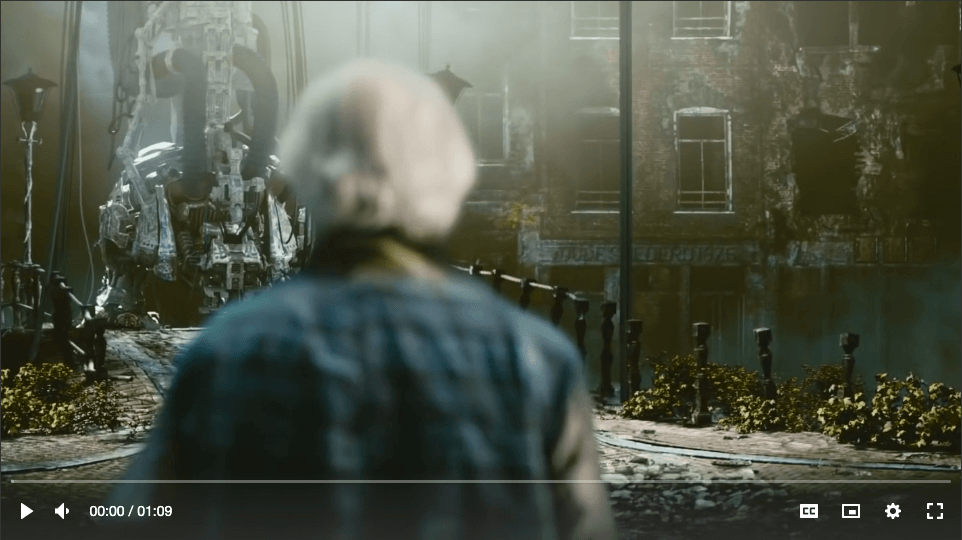
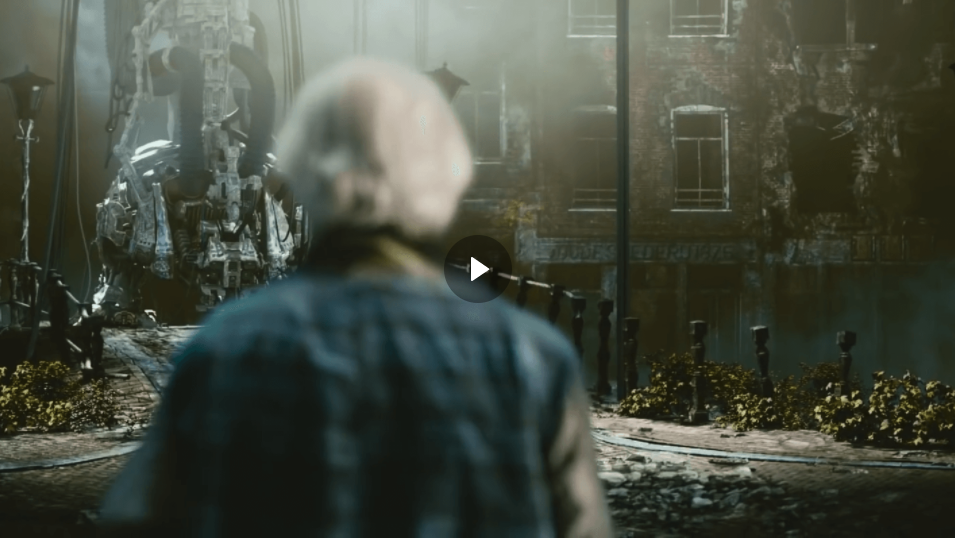
feat(complete): start with big playback control for vids on desktop

diff --git a/packages/vime-complete/src/plugins/controls/DefaultControls.svelte b/packages/vime-complete/src/plugins/controls/DefaultControls.svelte
@@ -104,6 +104,13 @@
   const onSetupDesktopVideoControls = () => {
     onResetGroups();
 
+    centerGroup.$set({
+      isActive: true,
+      shouldFill: true,
+      position: 'center:center',
+      controls: [BigPlaybackControl],
+    });
+
     const liveControls = [
       PlaybackControl, VolumeControl, ControlSpacer,
       LiveIndicator, PiPControl, FullscreenControl,
@@ -117,19 +124,28 @@
     ];
 
     lowerGroup.$set({
-      shouldFill: true,
-      isActive: true,
       position: 'flex-end:flex-start',
+      isEnabled: false,
+      isActive: false,
+      shouldFill: true,
       controls: !$isLive ? stdControls : liveControls,
     });
   };
 
-  $: if (
-    controls
-    && $isVideoView
-    && !$isMobile
-    && didMount
-  ) onSetupDesktopVideoControls($isLive);
+  const onDesktopVideoStart = async () => {
+    centerGroup.isActive = false;
+    await tick();
+    setTimeout(async () => {
+      centerGroup.shouldFill = false;
+      lowerGroup.isEnabled = true;
+      await tick();
+      lowerGroup.isActive = true;
+    }, 400);
+  };
+
+  $: isDesktopVideo = $isVideoView && !$isMobile && didMount;
+  $: if (controls && isDesktopVideo) onSetupDesktopVideoControls($isLive);
+  $: if (controls && isDesktopVideo && $playbackStarted) onDesktopVideoStart($isLive);
 
   // --------------------------------------------------------------
   // Mobile Video Controls
@@ -166,5 +182,5 @@
 
   $: isMobileVideo = $isVideoView && $isMobile && didMount;
   $: if (controls && isMobileVideo) onSetupMobileVideoControls($isLive);
-  $: if (controls && isMobileVideo && $playbackStarted) onMobileVideoStart();
+  $: if (controls && isMobileVideo && $playbackStarted) onMobileVideoStart($isLive);
 </script>

diff --git a/packages/vime-complete/src/plugins/controls/control/BigPlaybackControl.svelte b/packages/vime-complete/src/plugins/controls/control/BigPlaybackControl.svelte
@@ -1,8 +1,15 @@
 <div class:paused={$paused}>
-  <PlaybackControl 
-    large 
+  <ToggleControl
     {player}
-    bind:this={playbackControl}
+    large={true}
+    shoudlRenderTooltip={false}
+    isActive={!$paused}
+    autopilot={false}
+    activeIcon={$icons.pause}
+    inactiveIcon={$icons.play}
+    aria-label={$i18n.playback}
+    on:click={onToggle}
+    bind:this={toggle}
   />
 </div>
 
@@ -11,7 +18,7 @@
 </script>
 
 <script>
-  import PlaybackControl from './PlaybackControl.svelte';
+  import ToggleControl from './ToggleControl.svelte';
 
   // --------------------------------------------------------------
   // Setup
@@ -19,15 +26,17 @@
 
   export let player;
 
-  const { paused } = player.getStore();
+  const { paused, i18n, icons } = player.getStore();
 
   // --------------------------------------------------------------
   // Props
   // --------------------------------------------------------------
 
-  let playbackControl;
+  let toggle;
 
-  export const getPlaybackControl = () => playbackControl;
+  export const getToggle = () => toggle;
+  
+  const onToggle = () => { $paused = !$paused; };
 </script>
 
 <style>

diff --git a/packages/vime-complete/src/plugins/controls/control/Control.svelte b/packages/vime-complete/src/plugins/controls/control/Control.svelte
@@ -82,7 +82,7 @@
 
   // TODO: this is a poor temporary fix, the same control might be reused in different
   // positions, how to register them?
-  $: if (tooltipsRegistry && tooltip && !tooltipsRegistry.has(label)) {
+  $: if (label && tooltipsRegistry && tooltip && !tooltipsRegistry.has(label)) {
     tooltipsRegistry.register(label, tooltip);
   }
 </script>
@@ -124,10 +124,30 @@
     }
 
     &.large {
-      padding: $control-padding * 2;
+      display: flex;
+      align-items: center;
+      justify-content: center;
+      width: 48px;
+      height: 48px;
+      border-radius: 50%;
+      background: $color-gray-300;
 
-      & :global(svg) {
-        transform: scale(1.5);
+      @media (min-width: 480px) {
+        width: 60px;
+        height: 60px;
+
+        & :global(svg) {
+          transform: scale(1.4);
+        }
+      }
+
+      @media (min-width: 860px) {
+        width: 68px;
+        height: 68px;
+
+        & :global(svg) {
+          transform: scale(1.5);
+        }
       }
     }
 

diff --git a/packages/vime-complete/src/plugins/controls/control/ToggleControl.svelte b/packages/vime-complete/src/plugins/controls/control/ToggleControl.svelte
@@ -4,13 +4,11 @@
   <Control
     {player}
     {title}
-    {label}
-    {large}
+    {...$$restProps}
     on:click
     on:keydown
     on:focuschange
     on:click={autopilot ? onToggle : null}
-    aria-label={$$props['aria-label']}
     aria-pressed={isActive}
     bind:this={control}
   >
@@ -30,14 +28,12 @@
 
   let control;
 
-  export let label;
   export let activeTitle;
   export let inactiveTitle;
   export let activeIcon;
   export let inactiveIcon;
   export let isActive = false;
   export let isEnabled = true;
-  export let large = false;
   export let autopilot = true;
 
   export const getControl = () => control;

diff --git a/packages/vime-complete/src/plugins/controls/control/PlaybackControl.svelte b/packages/vime-complete/src/plugins/controls/control/PlaybackControl.svelte
@@ -1,6 +1,5 @@
 <ToggleControl
   {player}
-  {large}
   label={LABEL}
   isActive={!$paused}
   autopilot={false}
@@ -34,8 +33,6 @@
   // --------------------------------------------------------------
 
   let toggle;
-
-  export let large = false;
 
   export const getToggle = () => toggle;
 

diff --git a/packages/vime-docs/plugins/api/controls/control/toggle-control.md b/packages/vime-docs/plugins/api/controls/control/toggle-control.md
@@ -6,11 +6,9 @@ A [`Control`](./control.md) which toggles between an active and inactive state w
 
 ## Props
 
-### `label`
-
-**Type:** `string|undefined` | **Default:** `undefined`
-
-The `Control` [`label`](./control.md#label).
+{% hint style="info" %}
+Any unlisted props are passed to the underlying [`Control`](./control.md) instance.
+{% endhint %}
 
 ### `activeTitle`
 
@@ -47,12 +45,6 @@ Whether to render the control in the DOM or not.
 **Type:** `boolean` | **Default:** `false`
 
 Whether the control is in an active state or not.
-
-### `large`
-
-**Type:** `boolean` | **Default:** `false`
-
-Sets the `Control` [`large`](./control.md#large) property.
 
 ## Methods
 

diff --git a/packages/vime-docs/introduction.md b/packages/vime-docs/introduction.md
@@ -153,12 +153,9 @@ Vime in production just yet.
 
 ## Screenshots
 
-![Vime player screenshot][vime-screenshot]
+![Vime player screenshot](../../static/images/player-example.png)
 
-![Vime player mid-playback screenshot][vime-mid-pb-screenshot]
-
-[vime-screenshot]: https://raw.githubusercontent.com/vime-js/vime/master/static/images/player-example.png
-[vime-mid-pb-screenshot]: https://raw.githubusercontent.com/vime-js/vime/master/static/images/player-example-2.png
+![Vime player mid-playback screenshot](../../static/images/player-example-2.png)
 
 ## Features
 
